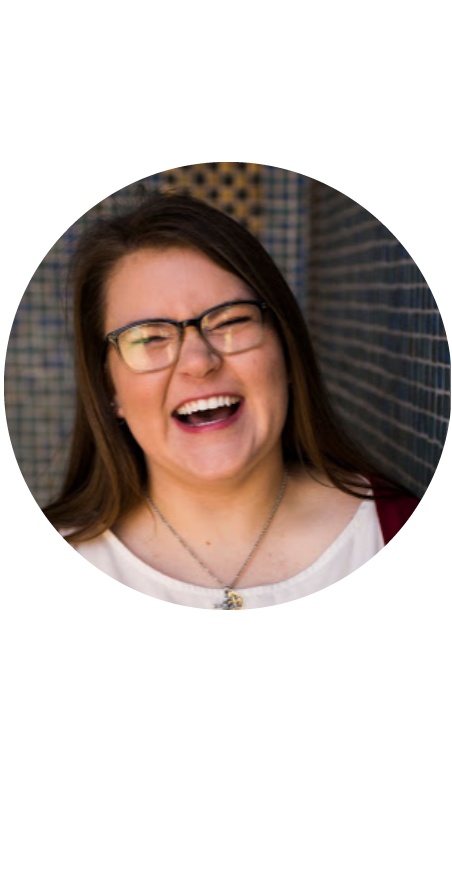
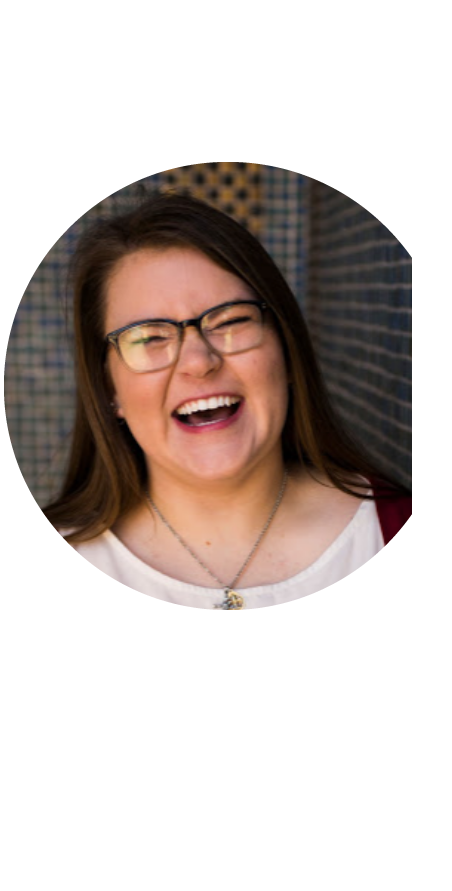
personal projects page done

Changed region(s): [[0.8982, 0.2727, 1.0, 0.5758]]

diff --git a/personal_projects.html b/personal_projects.html
@@ -37,26 +37,133 @@
   
       <script src="src/index.js" defer></script>
     </body>
-
+   
     <div class="commissions">
+        <div class="commissions_text"><p>COMMISSIONS:</p></div>
+        <div class="commish_grid">
         <div class="commish">
-            <div class="title"></div>
-            <div class="details"></div>
-            <div class="image"></div>
+            <div class="title"><p> ANDY</p></div>
+            <div class="details"><p> 
+                9x12 inches
+            <br>March 15th 2020
+            <br>Graphite on Bristol
+            <br>Commission for his Goddaughter's Baptism.
+
+            </p></div>
+            <div class="image"> <img id="andy" src="/image/andy.png"> </div>
         </div>
         <div class="commish">
-            <div class="title"></div>
-            <div class="details"></div>
-            <div class="image"></div>
+            <div class="title"><p> SAINT ISIDORE'S</p></div>
+            <div class="details"><p> 
+                24x48 inches
+            <br>May 5th 2019
+            <br>Acrylic on Canvas
+            <br>Goodbye gift for Father Ryan McCandless.
+
+            </p></div>
+            <div class="image"><img id="izzys" src="/image/st_isidore.png"></div>
         </div>
         <div class="commish">
-            <div class="title"></div>
-            <div class="details"></div>
-            <div class="image"></div>
+            <div class="title"><p> ERIN</p></div>
+            <div class="details"><p> 
+                9x12 inches
+            <br>August 13th 2019
+            <br>Graphite on Bristol
+            <br>Commission for friend, Erin.
+
+            </p></div>
+            <div class="image"><img id="erin" src="/image/erin.png"></div>
         </div>
-
-
-
     </div>
+    <div class="info_text"><p>
+        Prices vary
+    <br>Email  or DM for 
+    <br>more information</p></div>
+</div>
+    
+    
+    <div class="red_lines">
+        <div class="red_line_right"></div>
+        <div class="red_line_left"></div>
+        <div class="red_line_right"></div>
+        <div class="red_line_horizontal_right"></div>
+    </div>
+
+
+    <div class="favorite">
+        <div class="favorites_text"><p>FAVORITES:</p></div>
+        <div class="fav_grid">
+        <div class="fav">
+            <div class="title"><p>JORDAN</p></div>
+            <div class="details"><p> 
+                24x36inches
+            <br>Jan 2017
+            <br>White Charcoal on Black
+            <br>Portrait of Jordan from Blackdog Coffeehouse
+            </p></div>
+            <div class="image"><img id="jordan" src="/image/jordan.png"></div>
+        </div>
+        <div class="fav">
+            <div class="title"><p>DUPLICITOUS</p></div>
+            <div class="details"><p> 
+                9x18inches
+            <br>Jan 2017
+            <br>Black and White Charcoal on White
+            <br>This piece has 2 meanings and 
+            <br>it all depends on how it's flipped.
+            </p></div>
+            <div class="image"><img id="duplicitous" src="/image/duplicitous.png"></div>
+        </div>
+        <div class="fav">
+            <div class="title"><p>CHERYS</p></div>
+            <div class="details"><p> 
+                8.5x11 inches
+            <br>May 2018
+            <br>Graphite and Watercolor
+            <br>Portrait of Cherys also from Blackdog Coffeehouse
+            </p></div>
+            <div class="image"><img id="cherys" src="/image/cherys.png"></div>
+        </div>
+        <div class="fav">
+            <div class="title"><p>CRUICIFIED</p></div>
+            <div class="details"><p> 
+                36x40inches
+            <br>March 2020
+            <br>Spraypaint Stencil on Wood
+            <br>Exploration piece during the Covid-19 shutdown
+            </p></div>
+            <div class="image"><img id="crucifixion" src="/image/crucifixion.png"></div>
+        </div>
+        </div>
+    </div>
+
+    <div class="red_lines_2">
+        <div class="red_line_left"></div>
+        <div class="red_line_right"></div>
+        <div class="red_line_left"></div>
+        <div class="red_line_horizontal_left"></div>
+    </div>
+
+<div class="redbubble"><p>REDBUBBLE:</p></div>
+<div class="colorwrap"></div>
+    <div class="in_shop">
+        <div class="item"><img id="stmichael" src="/image/stmichael.png"></div>
+        <div class="item"><img id="feelings" src="/image/feelings.png"></div>
+        <div class="item"><img id="lovedoes" src="/image/lovedoes.png"></div>
+        <div class="item"><img id="max" src="/image/max.png"></div>
+        <div class="item"><img id="sttherese" src="/image/sttherese.png"></div>
+        <div class="item"><img id="afterthought" src="/image/afterthought.png"></div>
+        <div class="item"><img id="love" src="/image/love.png"></div>
+    </div>
+    <div class="redbubble_link"><a href="https://www.redbubble.com/people/mfarnet1019/shop?asc=u&ref=account-nav-dropdown"><br>CLICK HERE TO ACCESS SHOP</a></div>
+
+    <div class="red_lines_3">
+        <div class="red_line_right"></div>
+        <div class="red_line_left"></div>
+        <div class="red_line_horizontal_left"></div>
+    </div>
+
+
+
 
 </html>

diff --git a/personal_projects.css b/personal_projects.css
@@ -20,6 +20,217 @@ body {
   }
 
 
+
+
+
+
+
+
+
+
+
+
+  .red_lines{
+      margin-top: -1900px;
+  }
+
+  .red_lines_2{
+      margin-top: -2200px;
+  }
+  
+
+  .red_lines_3{
+      margin-top:-1400px;
+  }
+
+  .red_line_right{
+    background-color: #923a21;
+    width:100px;
+    height: 1000px;
+    margin-left: 95.25vw;
+    margin-top: -200px;
+  }
+  
+  .red_line_left{
+    background-color: #923a21;
+    width:100px;
+    height: 1000px;
+    margin-top: -300px;
+  }
+
+  .red_line_horizontal_right{
+      background-color: #923a21 ;
+      height:100px;
+      width:700px;
+      margin-left: 70vw;
+      margin-top: -500px;
+  }
+  .red_line_horizontal_left{
+    background-color: #923a21 ;
+    height:100px;
+    width:700px;
+    margin-top: -200px;
+}
+
+
+
+
+  .commissions_text{
+      color: #6b724e;
+      font-size: 40pt;
+      margin-top: 1200px;
+      margin-left: 300px;
+  }
+
+  .commish{
+      display: grid;
+      grid-template-rows: 1fr 1fr 1fr;
+      background-color:#6b724e;
+      height: 600px;
+      width: 1000px;
+  }
+
+  .image{
+      margin-top: -340px;
+      margin-left: 450px;
+  }
+
+  .title{
+    color: #e4c5a7;
+    font-size: 40pt;
+    margin-left: 15px;
+    text-align: right;
+    margin-right: 575px;
+  }
+
+  .details{
+    color: #e4c5a7;
+    font-size: 15pt;
+    margin-left: 15px;
+    text-align: right;
+    margin-right: 575px;
+  }
+
+  .commish_grid{
+      display:grid;
+      grid-template-rows: 1fr 1fr 1fr;
+      margin-left: 25vw;
+      grid-gap: 50px;
+    
+  }
+
+  .info_text{
+    color: #6b724e;
+    font-size: 30pt;
+    text-align: right;
+    margin-right: 200px;
+  }
+
+
+
+
+
+
+
+
+
+
+  .favorites_text{
+    color: #6b724e;
+    font-size: 40pt;
+    margin-left: 300px;
+}
+
+
+.fav_grid{
+    display:grid;
+    grid-template-rows: 1fr 1fr 1fr 1fr;
+    margin-left: 25vw;
+    grid-gap: 50px;
+}
+
+.fav{
+    display: grid;
+    grid-template-rows: 1fr 1fr 1fr;
+    background-color:#6b724e;
+    height: 600px;
+    width: 1000px;
+}
+
+#jordan{
+    height: 660px;
+}
+
+#duplicitous{
+    margin-top: 40px;
+    height: 375px;
+}
+
+#cherys{
+    height:550px;
+}
+
+#crucifixion{
+    height:400px;
+}
+
+
+
+
+
+.redbubble{
+    color: #6b724e;
+    font-size: 40pt;
+    margin-left: 300px;
+}
+
+.in_shop{
+    display:grid;
+    grid-gap:40px;
+    grid-template-columns: 1fr 1fr;
+    grid-template-rows: 1fr 1fr;
+    margin-left: 20vw;
+}
+
+#feelings{
+    margin-left: -10vw;
+}
+
+#lovedoes{
+    margin-left:10vw;
+    margin-top: 60px;
+}
+
+#afterthought{
+    margin-left:-10vw;
+}
+
+#love{
+    margin-left:10vw;
+    margin-top:40px;
+}
+
+.redbubble_link{
+    height: 100px;
+    width: 500px;
+    background-color: #6b724e ;
+    font-size: 20pt;
+    text-align: center;
+    margin-left:70vw;
+    margin-top: 30px;
+}
+
+a {
+   color: #e4c5a7;
+
+}
+
+
+
+
+
+
+
   /*EVERYTHING HERE IS FOR THE HAMBURGER HOME PAGE */
 
   .hamburger {

diff --git a/about.css b/about.css
@@ -46,7 +46,8 @@ body {
    #profile_pic{
     margin-top: 350px;
      height: 1100px;
-     margin-left: 75vw;
+     margin-left: 76vw;
+     
     }
 
     .red_line_right{
